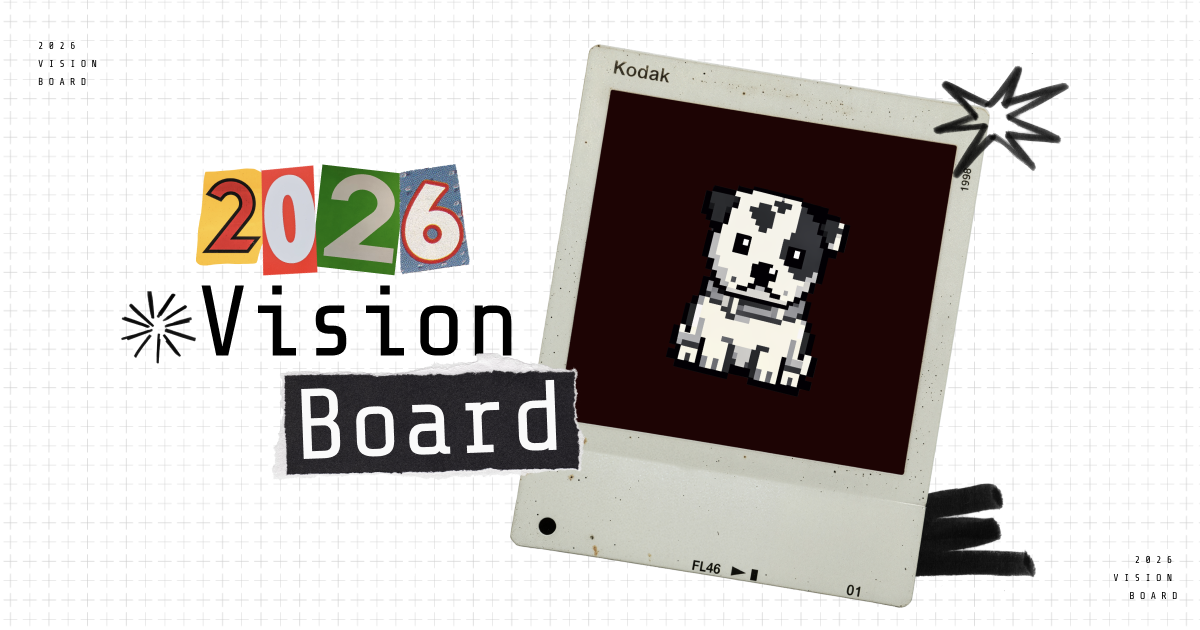
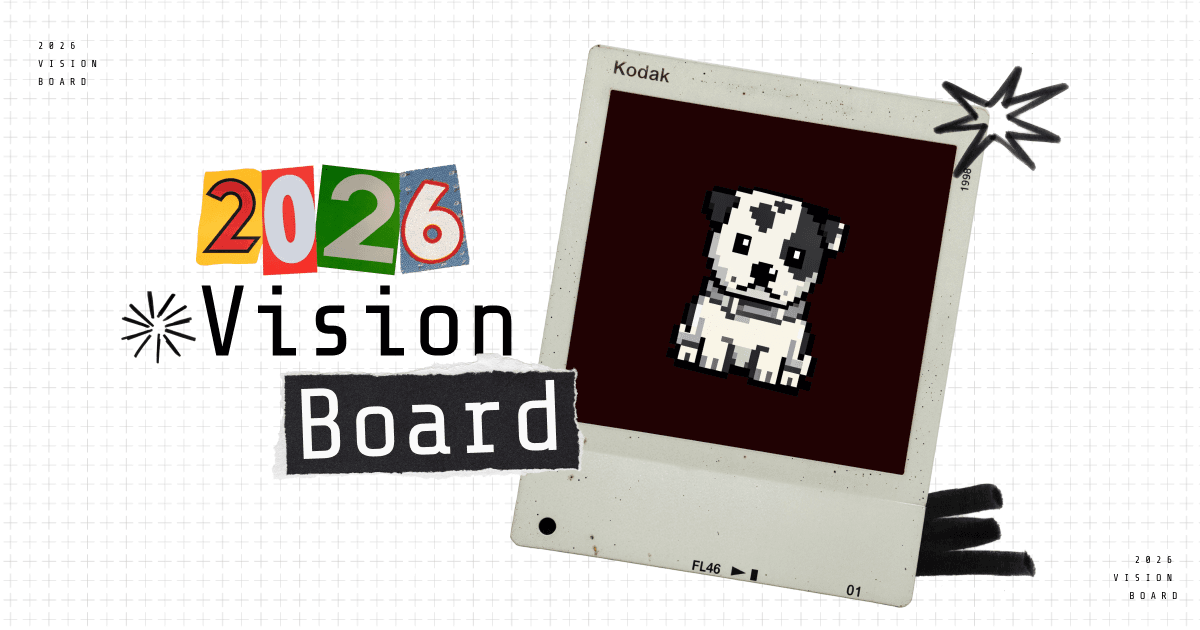
feat: use compressed og_vb.png as default OG image

Changed region(s): [[0.1542, 0.2413, 0.37, 0.4524]]

diff --git a/app/layout.tsx b/app/layout.tsx
@@ -38,7 +38,7 @@ export const metadata: Metadata = {
     siteName: "Agentic Vision Board",
     images: [
       {
-        url: "/brand/og_vb_black.png",
+        url: "/brand/og_vb.png",
         width: 1200,
         height: 630,
         alt: "Agentic Vision Board - Create your 2026 vision board with AI",
@@ -51,7 +51,7 @@ export const metadata: Metadata = {
     card: "summary_large_image",
     title: "Agentic Vision Board",
     description: "Create your 2026 vision board with AI-generated images",
-    images: ["/brand/og_vb_black.png"],
+    images: ["/brand/og_vb.png"],
   },
 };
 
